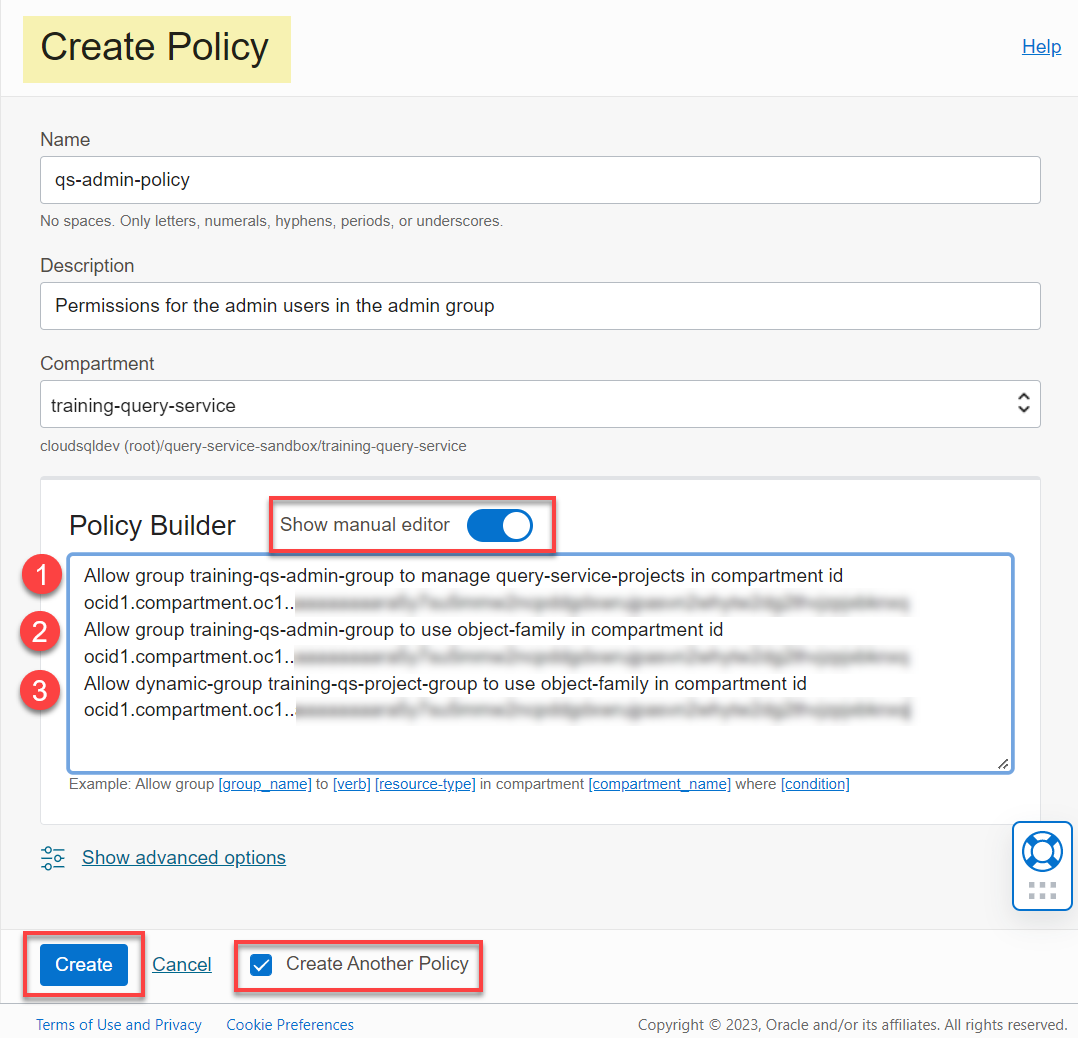
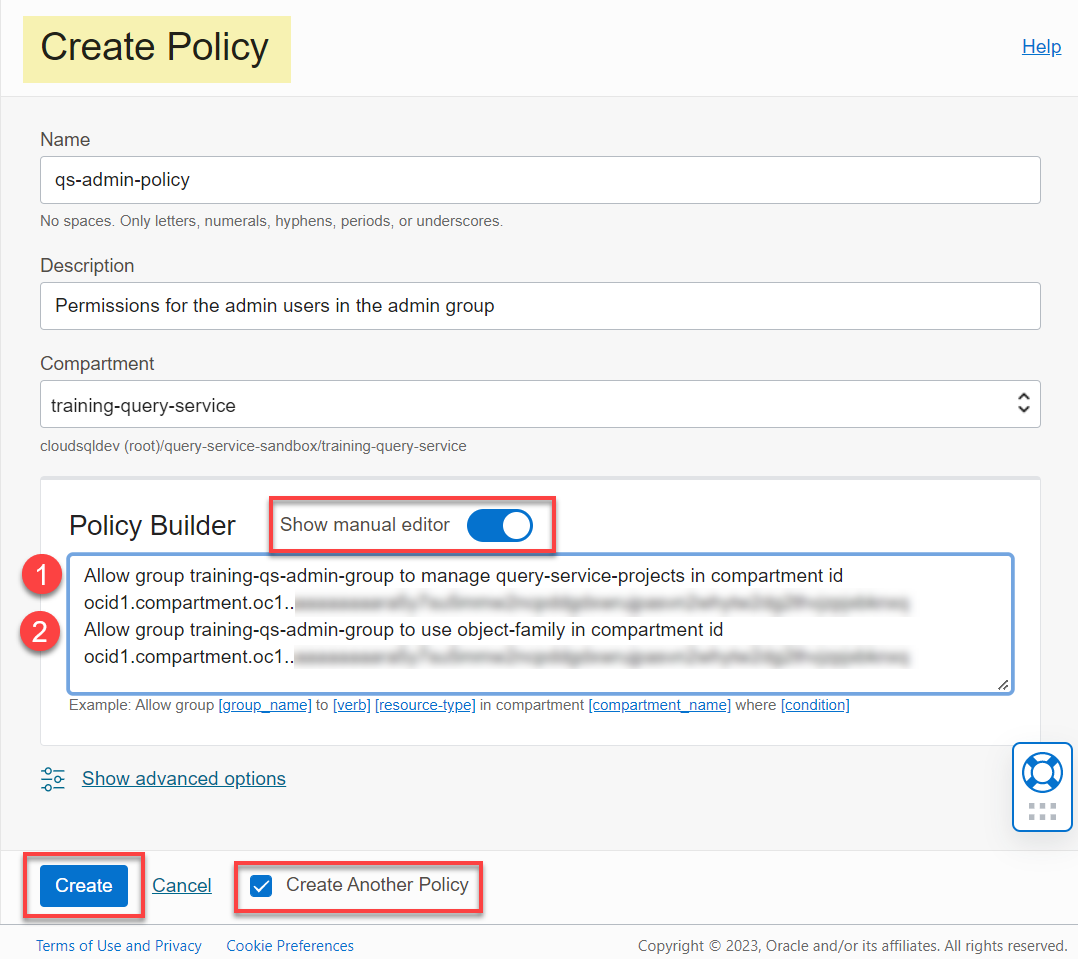
Update last QS LS sprint based on development feedback

diff --git a/oci/sprint-control-qs-user-access/sprint-control-qs-user-access.md b/oci/sprint-control-qs-user-access/sprint-control-qs-user-access.md
@@ -166,7 +166,7 @@ You will create an Administrator group and then add the newly created admin user
 
 10. On the **training-qs-admin-group** page, scroll-down to the **Group Members** section, and then click **Add User to Group**.
 
-11. In the **Add User to Group** dialog box, click the **User** drop-down list and select the select the **`training-qs-analyst-1`** user. Next, click **Add**. The **Group Details** page is re-displayed and the newly added user to this group is displayed in the **Group Members** section.
+11. In the **Add User to Group** dialog box, click the **User** drop-down list and select the **`training-qs-admin-1`** user. Next, click **Add**. The **Group Details** page is re-displayed and the newly added user to this group is displayed in the **Group Members** section.
 
     ![Add the admin user to the admin group.](./images/admin-user-added-group.png " ")
 
@@ -228,12 +228,15 @@ Users in this group will have permissions to fully manage all the resources in Q
     * **Create Another Policy:** Select this checkbox to create the second analyst policy.
     * Click the **Copy** button in the following code box to copy the policy statement, and then paste it in the **Policy Builder** text box. This policy statement grants members of the `training-qs-admin-group` group full manage privileges on all the resources in Query Service in the current tenancy. Don't add any line breaks in any of the statements below. Replace the _'Enter your compartment ocid'_ placeholders with the ocids for your compartment that you copied earlier.
 
+        The first policy statement allows the Query Service Administrator group to create, manage, and delete Query Service projects in the specified compartment and to run queries in those projects.
+
+        The second policy statement allows the Query Service Administrator group to use buckets and objects in the specified compartment. This allows Query Administrators to use a Query Service project to browse object storage files, preview and analyze object storage file contents, and create tables based on object storage files.
+
         **Note:** Don't remove the tickmarks (' ').
 
         ```
         <copy>Allow group training-qs-admin-group to manage query-service-projects in compartment id 'Enter your compartment ocid'
-        Allow group training-qs-admin-group to use object-family in compartment id 'Enter your compartment ocid'
-        Allow dynamic-group training-qs-project-group to use object-family in compartment id 'Enter your compartment ocid'</copy>
+        Allow group training-qs-admin-group to use object-family in compartment id 'Enter your compartment ocid'</copy>
         ```
 
         ![Complete the dialog box and then click Create Policy.](./images/create-admin-policy-db.png " ")
@@ -256,6 +259,14 @@ Users in this group will have permissions to fully manage all the resources in Q
     * **Policy Builder:** Click and slide the **Show manual editor** slider to enable it. An empty text box is displayed in this section.
     * **Create Another Policy:** De-select this checkbox.
     * Click the **Copy** button in the following code box to copy the policy statements, and then paste them in the **Policy Builder** text box. Don't add any line breaks in any of the statements below. Replace the _'Enter your compartment ocid'_ and _'Enter your Query Service project ocid'_ placeholders with the OCIDs for your compartment and query service project that you copied earlier.
+
+        The first policy statement allows the Query Service Analyst group to list all projects in the specified compartment.
+
+        The next three policy statements allow the Query Service Analyst group to read the specified project and to use tables, schemas, and worksheets in that project.
+
+        The fifth policy statement allows the Query Service Analyst group to run queries.
+
+        The final policy statement allows the Query Service Analyst group to use buckets and objects in the specified compartment. This allows Query Analysts to use the Query Service project to browse object storage files, preview and analyze object storage file contents, and to create tables based on the object storage files.
 
         **Note:** Don't remove the tickmarks (' ').
 
